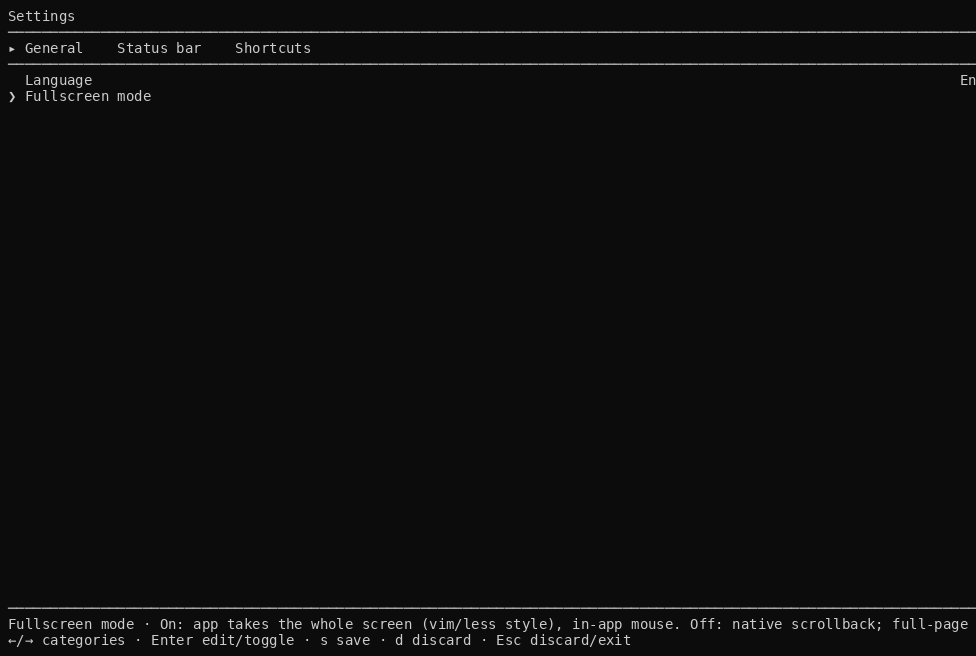
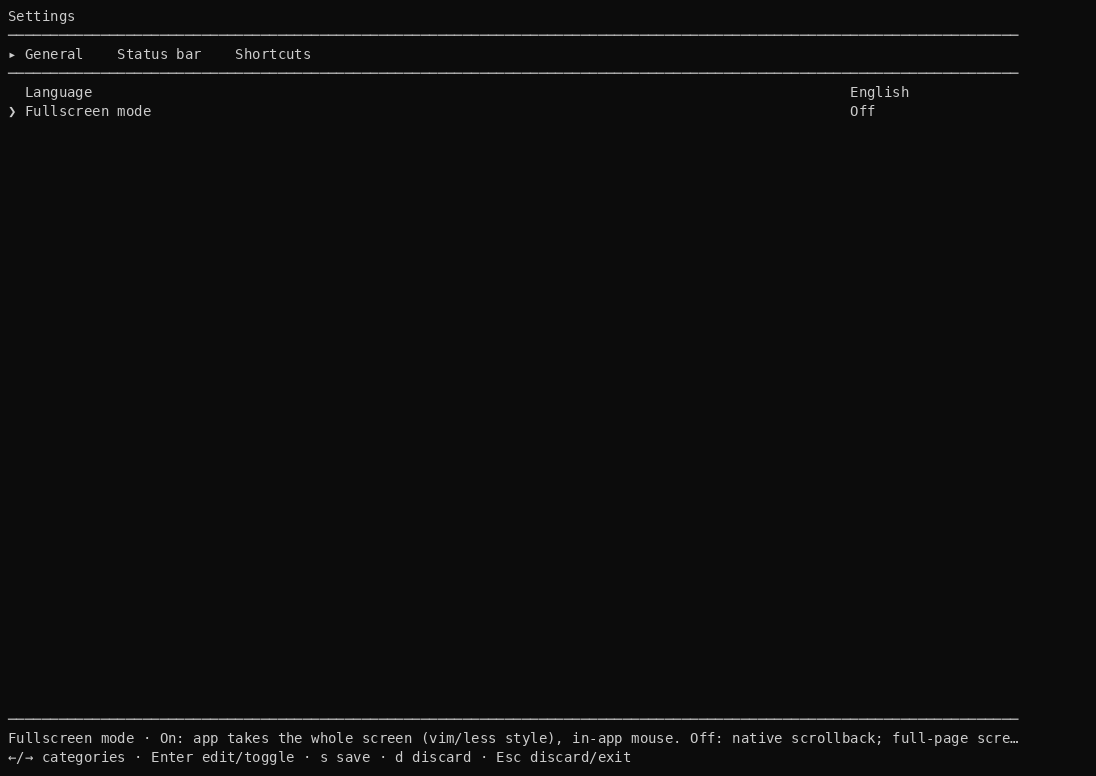
fix(settings): P0/P1 Fable review — i18n, star gap, PNG, edit caret
Restore settings-field-invalid and settings-badge-override i18n keys for
footer hints. Pin dirty star + gap columns (* On /   Off). Edit mode uses
truncate-start so the caret stays visible. Measure monospace cell width
in txt-frames-to-png.py so 80-col PNGs show full English/ctrl+p. Extend
verify-settings-layout for star spacing, footer user, and edit caret.

Changed region(s): [[0.0, 0.0, 0.9529, 0.1524], [0.0, 0.9146, 1.0, 1.0], [0.9836, 0.0915, 1.0, 0.1524]]

diff --git a/src/screens/Settings.tsx b/src/screens/Settings.tsx
@@ -526,7 +526,7 @@ export function Settings({
     if (focused === undefined || focusedHint === undefined) return ''
     const parts = [pick(focused.label, focused.descriptions)]
     if (focusedState?.overridden === true) parts.push(t('settings-badge-override'))
-    if (focusedState?.invalid === true) parts.push('!')
+    if (focusedState?.invalid === true) parts.push(t('settings-field-invalid'))
     parts.push(focusedHint)
     return parts.join(' · ')
   })()
@@ -542,10 +542,11 @@ export function Settings({
     columns,
   )
 
-  // One reserved dirty-star column immediately before the value; override/source
-  // lives in the footer hint, never as a mid-row gutter badge.
-  const STAGED_SLOT = 1
-  const badgeBlock = STAGED_SLOT
+  // Pinned right block: 1-col dirty star, 1-col gap, then value — star never
+  // rides the value width (* On /   Off /   English at fixed columns).
+  const STAR_SLOT = 1
+  const GAP_SLOT = 1
+  const badgeBlock = STAR_SLOT + GAP_SLOT
   const valueColWidth = Math.max(12, Math.min(20, Math.floor(columns * 0.26)))
   const labelBudget = Math.max(8, columns - 2 - badgeBlock - valueColWidth - 2)
 
@@ -590,18 +591,24 @@ export function Settings({
             height={1}
             overflow="hidden"
             width={badgeBlock + valueColWidth}
-            justifyContent="flex-end"
           >
-            <Text color={isStaged ? 'suggestion' : undefined}>
-              {isStaged ? '*' : ' '}
-            </Text>
-            <Text
-              color={isEditing || isFocused ? 'suggestion' : undefined}
-              dimColor={!isFocused && !isEditing && (state.text === '' || field.kind === 'boolean')}
-              wrap="truncate-end"
-            >
-              {value}
-            </Text>
+            <Box width={STAR_SLOT}>
+              <Text color={isStaged ? 'suggestion' : undefined}>
+                {isStaged ? '*' : ' '}
+              </Text>
+            </Box>
+            <Box width={GAP_SLOT}>
+              <Text> </Text>
+            </Box>
+            <Box width={valueColWidth} flexShrink={0} overflow="hidden">
+              <Text
+                color={isEditing || isFocused ? 'suggestion' : undefined}
+                dimColor={!isFocused && !isEditing && (state.text === '' || field.kind === 'boolean')}
+                wrap={isEditing ? 'truncate-start' : 'truncate-end'}
+              >
+                {value}
+              </Text>
+            </Box>
           </Box>
         </Box>
       </ListItem>

diff --git a/scripts/verify-settings-layout.tsx b/scripts/verify-settings-layout.tsx
@@ -160,8 +160,10 @@ async function main(): Promise<void> {
   const dirty = chrome()
   check('dirty title suffix', /Settings · unsaved/.test(dirty.plain))
   check('dirty value shows On', /\bOn\b/.test(dirty.plain))
-  check('dirty star adjacent to value', /\*\s?On/.test(dirty.plain))
+  check('dirty star spaced before value', /\*\s+On/.test(dirty.plain))
+  check('no glued star value', !/\*On\b/.test(dirty.plain))
   check('no override letter in row', !/\bu\s+\*/.test(dirty.plain) && !/\s+u\s+\*/.test(dirty.plain))
+  check('footer shows user source', /user · On:/.test(dirty.plain))
   check('unsaved not in list well when dirty', !dirty.unsavedInListWell)
   check('footer hint row stable when dirty', before.navY === dirty.navY && dirty.navY === ROWS - 1)
 
@@ -171,6 +173,15 @@ async function main(): Promise<void> {
   await sleep(120)
   const shortcuts = chrome()
   check('shortcut value readable', /ctrl\+p/i.test(shortcuts.plain))
+
+  // Edit mode: caret must stay visible (truncate-start on the value cell).
+  stdin.write('\r')
+  await sleep(80)
+  for (let i = 0; i < 24; i++) stdin.write('\x1b[C')
+  await sleep(80)
+  const editing = chrome()
+  check('edit mode shows caret', /▌/.test(editing.plain))
+  check('edit value prefix visible', /ctrl\+p/i.test(editing.plain))
 
   instance.unmount()
   term.dispose()

diff --git a/src/i18n.ts b/src/i18n.ts
@@ -584,12 +584,13 @@ const dict = {
   'settings-readonly-heading': { zh: '其他设置命名空间（只读）', en: 'Other settings namespaces (read-only)' },
   'settings-readonly-tab': { zh: '其他', en: 'Other' },
   'settings-readonly-hint': { zh: '以上命名空间尚无 TUI 设置区块，可手工编辑 {{path}}', en: 'No TUI section for these namespaces yet — edit {{path}} by hand' },
-  'settings-badge-override': { zh: '用户覆盖', en: 'user override' },
+  'settings-badge-override': { zh: '用户', en: 'user' },
   'settings-badge-restart': { zh: '重启生效', en: 'applies on restart' },
   'settings-badge-dirty': { zh: '未保存', en: 'unsaved' },
   'settings-badge-saving': { zh: '保存中', en: 'saving' },
   'settings-badge-failed': { zh: '保存失败', en: 'save failed' },
   'settings-field-empty': { zh: '（未设置）', en: '(unset)' },
+  'settings-field-invalid': { zh: '无效输入', en: 'invalid' },
   'settings-on': { zh: '开', en: 'On' },
   'settings-off': { zh: '关', en: 'Off' },
   'settings-secret-set': { zh: '●●●●●●（已配置）', en: '●●●●●● (configured)' },

diff --git a/scripts/txt-frames-to-png.py b/scripts/txt-frames-to-png.py
@@ -6,6 +6,8 @@ Usage:
   python3 scripts/txt-frames-to-png.py --dir docs/evidence/pr3-settings-polish
 
 Strips ANSI escapes, uses a dark terminal palette, pads to a fixed cell grid.
+Cell width/height are measured from the chosen monospace font so an 80-column
+frame is never cropped on the right (DejaVu 14px is ~9–10px/cell, not 8).
 """
 from __future__ import annotations
 
@@ -17,12 +19,9 @@ from pathlib import Path
 from PIL import Image, ImageDraw, ImageFont
 
 ANSI_RE = re.compile(r'\x1b\[[0-9;]*[A-Za-z]')
-CELL_W = 8
-CELL_H = 16
 PAD = 8
 BG = (12, 12, 12)
 FG = (204, 204, 204)
-ACCENT = (130, 180, 255)
 
 
 def strip_ansi(text: str) -> str:
@@ -40,16 +39,27 @@ def load_font() -> ImageFont.FreeTypeFont | ImageFont.ImageFont:
     return ImageFont.load_default()
 
 
+def cell_metrics(font: ImageFont.FreeTypeFont | ImageFont.ImageFont) -> tuple[int, int]:
+    """Monospace cell size from the font, not a hard-coded 8×16 guess."""
+    sample = 'M' * 80
+    bbox = font.getbbox(sample)
+    cell_w = max(1, (bbox[2] - bbox[0] + 79) // 80)
+    ascent, descent = font.getmetrics()
+    cell_h = max(1, ascent + descent + 2)
+    return cell_w, cell_h
+
+
 def render_txt(txt_path: Path, font: ImageFont.FreeTypeFont | ImageFont.ImageFont) -> Path:
     lines = strip_ansi(txt_path.read_text(encoding='utf-8')).splitlines()
     cols = max((len(line) for line in lines), default=1)
     rows = max(len(lines), 1)
-    width = PAD * 2 + cols * CELL_W
-    height = PAD * 2 + rows * CELL_H
+    cell_w, cell_h = cell_metrics(font)
+    width = PAD * 2 + cols * cell_w
+    height = PAD * 2 + rows * cell_h
     img = Image.new('RGB', (width, height), BG)
     draw = ImageDraw.Draw(img)
     for y, line in enumerate(lines):
-        draw.text((PAD, PAD + y * CELL_H), line, font=font, fill=FG)
+        draw.text((PAD, PAD + y * cell_h), line, font=font, fill=FG)
     out = txt_path.with_suffix('.png')
     img.save(out)
     return out

diff --git a/docs/evidence/pr3-settings-polish/REVIEW.md b/docs/evidence/pr3-settings-polish/REVIEW.md
@@ -1,19 +1,17 @@
 # PR #3 visual review — Jesse frame order (source of truth)
 
-Review order (80×24) and the defects each frame exposed. Evidence `.txt` is authoritative (PNG regenerated from the same headless capture).
+Review order (80×24) and the defects each frame exposed. Evidence `.txt` is authoritative; PNG is regenerated with font-measured cell width (no right-edge crop).
 
 | # | Review frame | Evidence file | Defects seen | Fix |
 | --- | --- | --- | --- | --- |
-| 1 | Settings open | `after_80x24_open` | Value `Engl`; footer hint clipped mid-word | Fixed value col (~20 cols); label truncates first; footer `truncate-end` one line |
-| 2 | Focus move | `after_80x24_focus_move` | Value clip; chrome must stay pinned | Same value col; `titleY=0` / `navY=rows-1` in metrics |
-| 3 | Dirty toggle | `after_80x24_toggle_dirty` | `u *` mid-row badge; `unsaved` in list well | Title `Settings · unsaved`; 1-col `*` slot before value (`*On`); override `user` only in footer hint |
-| 4 | Shortcuts tab | `after_80x24_category_shortcuts` | `ctr`; floating `unsaved` | Full `ctrl+p`; dirty suffix stays in title |
-| 5 | Plan picker | `after_80x24_plan_picker` | Descriptions must stay height=1 | Select + ListItem fixed desc row (prior commit) |
-| 6 | Skills loading | `after_80x24_skills_loading` | Sparse OK; chrome height must match loaded | `listSlots` + `PickerHint` reserved (prior commit) |
+| 1 | Settings open | `after_80x24_open` | Value `Engl`; footer hint clipped | Fixed value col; label truncates first; PNG renderer uses measured cell width |
+| 2 | Focus move | `after_80x24_focus_move` | Value clip; chrome must stay pinned | Same value col; `titleY=0` / `navY=rows-1` |
+| 3 | Dirty toggle | `after_80x24_toggle_dirty` | `u *` mid-row; `*On` glue; `unsaved` in list well | Title `Settings · unsaved`; pinned `* On` / `  Off`; footer `· user ·` |
+| 4 | Shortcuts tab | `after_80x24_category_shortcuts` | `ctr`; floating `unsaved` | Full `ctrl+p`; dirty suffix in title |
+| 5 | Plan picker | `after_80x24_plan_picker` | Descriptions must stay height=1 | Select + ListItem fixed desc row |
+| 6 | Skills loading | `after_80x24_skills_loading` | Sparse OK; chrome height match | `listSlots` + `PickerHint` reserved |
 | 7 | Skills loaded | `after_80x24_skills_loaded` | Sparse OK; chrome height match | `minHeight=listSlots` on loaded list |
 
-**Also on this branch (outside Settings chrome):** StatusLine footer fields use `truncate-end` so 80-col metrics no longer clip mid-word.
-
-**Not goals:** invent fake General rows; collapse reserved list height.
+**Also:** edit-mode value cell uses `truncate-start` so the caret stays visible; invalid drafts show `invalid` in the footer hint (not `!`).
 
 Regenerate: `node --import tsx/esm scripts/capture-pr3-evidence.tsx` then `python3 scripts/txt-frames-to-png.py --dir docs/evidence/pr3-settings-polish`.
